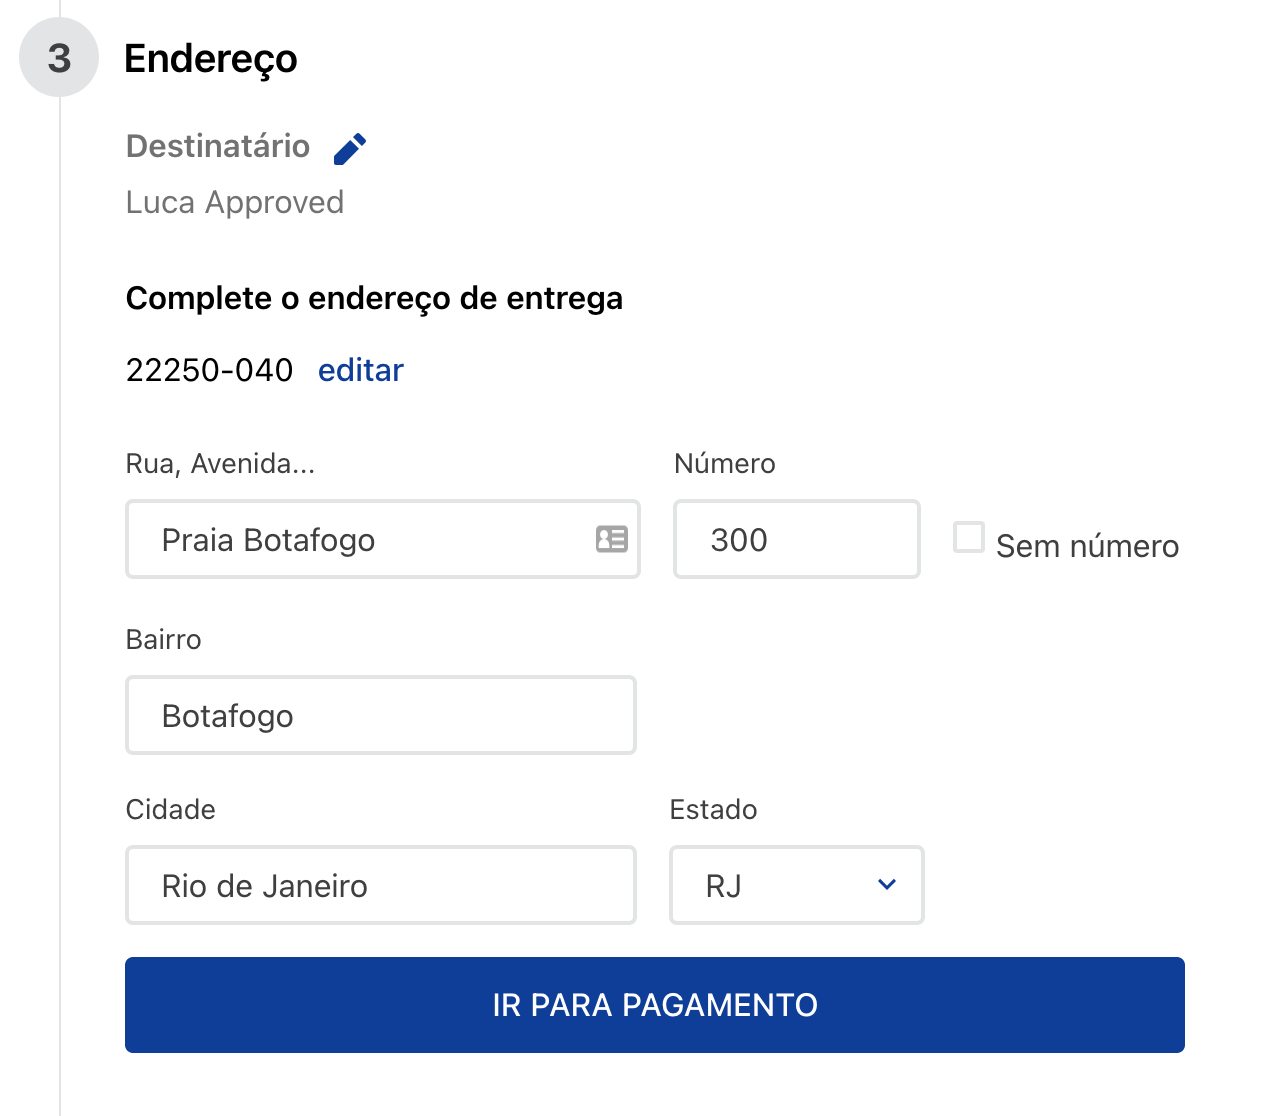
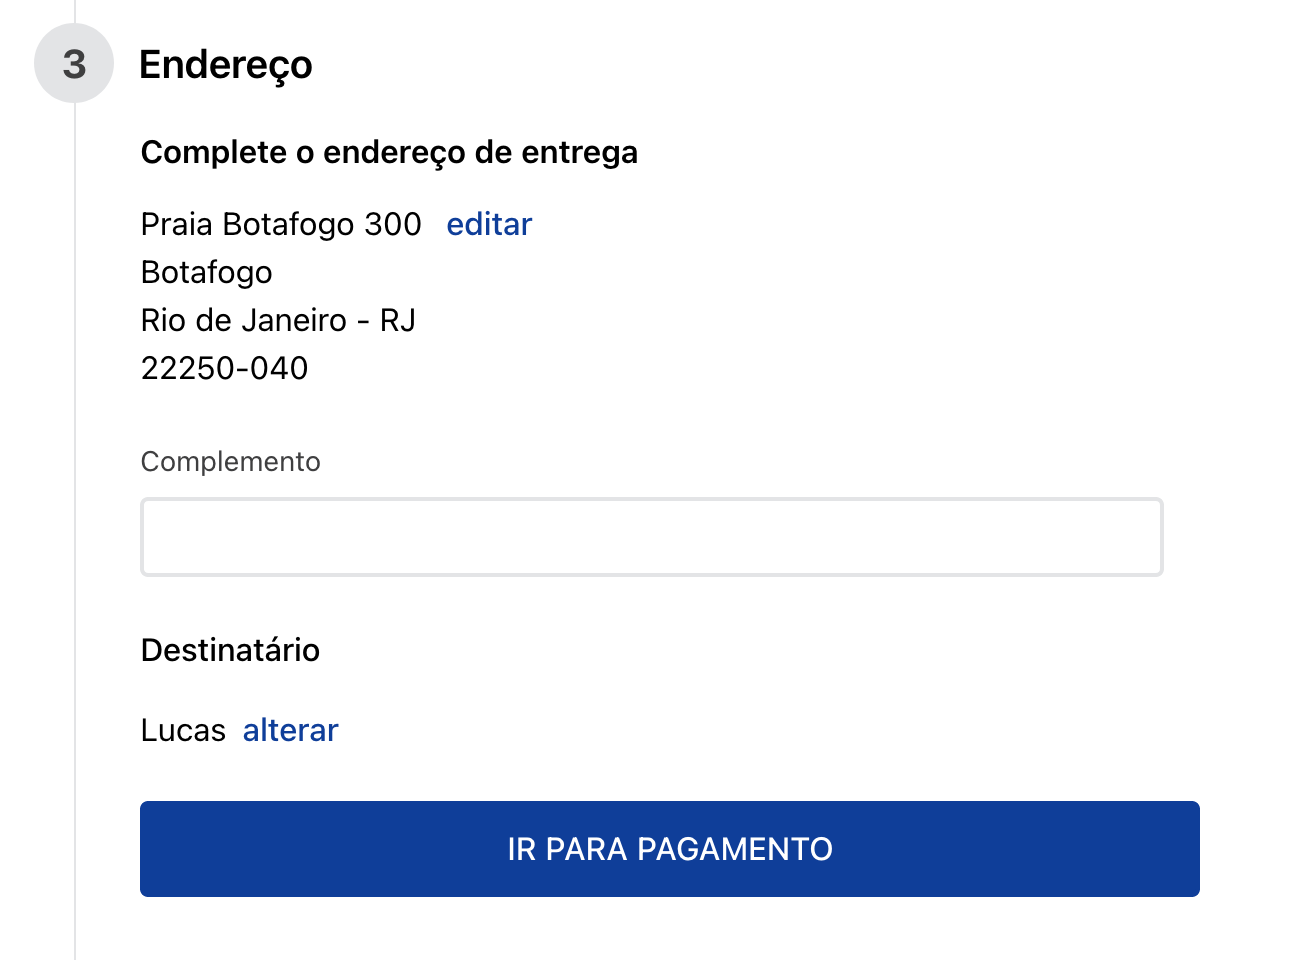
Update docs

diff --git a/docs/README.md b/docs/README.md
@@ -103,16 +103,12 @@ The machine is in its final state and calls `goToNextStep`, which in turn may re
 
 ![Address state machine diagram](./images/address_state_machine.png)
 
-The address also has a multistep UI, similar to shipping which was explained above, but it is responsible solely to update the customer address.
+The address step has a simpler UI, consisting only of one screen which is solely responsible to update the customer's address.
 
 #### 1. `editAddress`:
 
 ![Edit address form](./images/form_fill_address.png)
 
-#### 2. `editReceiverInfo`:
-
-![Receiver info form](./images/form_receiver_info.png)
-
-#### 3. `done`:
+#### 2. `done`:
 
 The machine is in its final state and calls `goToNextStep`, which in turn redirects the user to the payment step.
